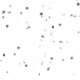
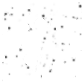
Progress on Faces. Obscurement.

diff --git a/js/orb/client/view/GameMap.js b/js/orb/client/view/GameMap.js
@@ -58,7 +58,7 @@
             initNode: function(parent, attrs) {
                 attrs.pointerEvents = 'none';
                 
-                attrs.zIndex = 2;
+                attrs.zIndex = 4;
                 attrs.boxShadow ??= [0,0,8,'#000'];
                 attrs.roundedCorners ??= 6;
                 attrs.padding ??= 6;
@@ -118,7 +118,7 @@
             initNode: function(parent, attrs) {
                 this.mouseOver = this.mouseDown = false;
                 
-                attrs.zIndex = 1;
+                attrs.zIndex = 3;
                 attrs.bgColor ??= '#000';
                 attrs.outline ??= [1, 'solid', '#000'];
                 attrs.border ??= [1, 'solid', '#fff'];
@@ -246,9 +246,11 @@
             include:[ImageSupport],
             
             initNode: function(parent, attrs) {
-                attrs.width = attrs.height = cellSize;
+                attrs.x = attrs.y = -1;
+                attrs.width = attrs.height = cellSize + 2;
                 attrs.pointerEvents = 'none';
                 attrs.imageSize = 'contain';
+                attrs.zIndex ??= 2;
                 
                 const rotation = attrs.rotation;
                 delete attrs.rotation;
@@ -273,7 +275,7 @@
                 
                 this.callSuper(parent, attrs);
                 
-                this._bFace = new FaceView(this, {});
+                this._bFace = new FaceView(this, {zIndex:1});
                 this._nFace = new FaceView(this, {});
                 this._sFace = new FaceView(this, {rotation:180});
                 this._eFace = new FaceView(this, {rotation:90});
@@ -568,6 +570,7 @@
             // Make a lookup table of observed cell IDs. These are Cells that are within your
             // sight distance. This produces a "set" of Cells in a circular shape.
             const originArr = character[FIELD_LOC],
+                originCell = model.getCellByLocArr(originArr),
                 baseX = originArr[1],
                 baseY = originArr[2],
                 offsets = cellOffsetsByDistance[character.getSightDistance()];
@@ -610,35 +613,66 @@
                             xIdx = isNotFlipped ? 1 : 2,
                             yIdx = isNotFlipped ? 2 : 1,
                             xAdj = isNotFlipped ? (isPosX ? 1 : -1) : (isPosY ? 1 : -1),
-                            yAdj = isNotFlipped ? (isPosY ? 1 : -1) : (isPosX ? 1 : -1);
+                            yAdj = isNotFlipped ? (isPosY ? 1 : -1) : (isPosX ? 1 : -1),
+                            
+                            /*DIR_UP = isNotFlipped ? 
+                                (isPosX ? (isPosY ? SOUTH : NORTH) : (isPosY ? SOUTH : NORTH)) : 
+                                (isPosX ? (isPosY ? EAST : EAST) : (isPosY ? WEST : WEST)),
+                            
+                            DIR_OVER = isNotFlipped ?
+                                (isPosX ? (isPosY ? EAST : EAST) : (isPosY ? WEST : WEST)) : 
+                                (isPosX ? (isPosY ? SOUTH : NORTH) : (isPosY ? SOUTH : NORTH));
+                            */
+                            
+                            DIR_UP = isNotFlipped ? (isPosY ? SOUTH : NORTH) : (isPosX ? EAST : WEST),
+                            DIR_OVER = isNotFlipped ? (isPosX ? EAST : WEST) : (isPosY ? SOUTH : NORTH);
                         
                         let opacityTotal = 0,
-                            endedOnObserved = false;
-                        const isCellObscured = locArrToCheck => {
+                            endedOnObserved = false,
+                            prevCell = originCell;
+                        const isCellObscured = (locArrToCheck, isUp) => {
                             const cellToCheck = model.getCellByLocArr(locArrToCheck);
                             if (cellToCheck) {
+                                // Check face in the cell we just left
+                                if (prevCell) {
+                                    face = prevCell.getFaceForDirection(isUp ? DIR_UP : DIR_OVER);
+                                    if (face) {
+                                        opacityTotal += face.getCompositionObject().getOpacity();
+                                        if (opacityTotal >= 1) return true;
+                                    }
+                                }
+                                prevCell = cellToCheck;
                                 
-                                // FIXME check cell walls once we have walls implemented.
+                                // Check face within the current cell we are checking
+                                face = cellToCheck.getFaceForOppositeDirection(isUp ? DIR_UP : DIR_OVER);
+                                if (face) {
+                                    opacityTotal += face.getCompositionObject().getOpacity();
+                                    if (opacityTotal >= 1) return true;
+                                }
+                                
+                                // Check cell itself
                                 opacityTotal += cellToCheck.getCompositionObject().getOpacity();
-                                if (opacityTotal < 1) return false;
+                                return opacityTotal >= 1;
                             }
                             return true;
                         };
+                        
                         const isObscured = (depth, firstZZ, zzOptA) => {
                             let retval = false;
                             switch (path[depth]) {
                                 case 'up':
                                     // Up only
                                     locArrToCheck[yIdx] += yAdj;
-                                    retval = isCellObscured(locArrToCheck);
+                                    retval = isCellObscured(locArrToCheck, true);
                                     break;
                                 case 'uo':
-                                    // Up and Over
+                                    // Up...
                                     locArrToCheck[yIdx] += yAdj;
-                                    retval = isCellObscured(locArrToCheck);
+                                    retval = isCellObscured(locArrToCheck, true);
                                     if (!retval) {
+                                        // ...and Over
                                         locArrToCheck[xIdx] += xAdj;
-                                        retval = isCellObscured(locArrToCheck);
+                                        retval = isCellObscured(locArrToCheck, false);
                                     }
                                     break;
                                 case 'zz':
@@ -647,31 +681,38 @@
                                     if (firstZZ) {
                                         const optBX = locArrToCheck[1],
                                             optBY = locArrToCheck[2],
-                                            optBOpacityTotal = opacityTotal;
+                                            optBOpacityTotal = opacityTotal,
+                                            optBPrevCell = prevCell;
                                         retval = isObscured(depth, false, true);
                                         const optAEndedOnObserved = endedOnObserved;
+                                        // If option A was obscured try option B.
                                         if (retval) {
                                             locArrToCheck[1] = optBX;
                                             locArrToCheck[2] = optBY;
                                             opacityTotal = optBOpacityTotal;
+                                            prevCell = optBPrevCell;
                                             retval = isObscured(depth, false, false);
                                             if (retval && optAEndedOnObserved) endedOnObserved = true;
                                         }
                                         return retval;
                                     } else {
                                         if (zzOptA) {
+                                            // Up...
                                             locArrToCheck[yIdx] += yAdj;
-                                            retval = isCellObscured(locArrToCheck);
+                                            retval = isCellObscured(locArrToCheck, true);
                                             if (!retval) {
+                                                // ...and Over
                                                 locArrToCheck[xIdx] += xAdj;
-                                                retval = isCellObscured(locArrToCheck);
+                                                retval = isCellObscured(locArrToCheck, false);
                                             }
                                         } else {
+                                            // Over...
                                             locArrToCheck[xIdx] += xAdj;
-                                            retval = isCellObscured(locArrToCheck);
+                                            retval = isCellObscured(locArrToCheck, false);
                                             if (!retval) {
+                                                // ... and Up
                                                 locArrToCheck[yIdx] += yAdj;
-                                                retval = isCellObscured(locArrToCheck);
+                                                retval = isCellObscured(locArrToCheck, true);
                                             }
                                         }
                                     }
@@ -691,7 +732,7 @@
                         };
                         
                         if (isObscured(0, true, true)) {
-                            if (!endedOnObserved) obscuredLocIds.add(locId);
+                            /*if (!endedOnObserved)*/ obscuredLocIds.add(locId);
                         }
                     }
                 } else {

diff --git a/js/orb/server/WorldEventHandler.js b/js/orb/server/WorldEventHandler.js
@@ -213,12 +213,12 @@ const orb = require('./orb.js'),
                             {prop, value, direction} = event.msg;
                         
                         const cell = worldMap.getCell(locArrToId(locArr), true),
-                            updateFaceFunc = (face, field, prop) => {
+                            updateFaceFunc = (face, field) => {
                                 if (value === 'unk') {
                                     cell.set(field, null);
                                 } else {
                                     if (face) {
-                                        face.set(prop, value);
+                                        face.set(FIELD_COMPOSITION, value);
                                     } else {
                                         cell.set(field, {[FIELD_COMPOSITION]:value});
                                     }
@@ -241,10 +241,10 @@ const orb = require('./orb.js'),
                             case WEST + '.' + FIELD_COMPOSITION:
                                 updateFaceFunc(cell.getWestFace(), FIELD_WEST);
                                 break;
-                            case TOP + '.' + FIELD_COMPOSITION:
+                            case UP + '.' + FIELD_COMPOSITION:
                                 updateFaceFunc(cell.getTopFace(), FIELD_TOP);
                                 break;
-                            case BOTTOM + '.' + FIELD_COMPOSITION:
+                            case DOWN + '.' + FIELD_COMPOSITION:
                                 updateFaceFunc(cell.getBottomFace(), FIELD_BOTTOM);
                                 break;
                         }

diff --git a/js/orb/client/view/GamePanel.js b/js/orb/client/view/GamePanel.js
@@ -42,7 +42,7 @@
                 TYPE_EXIT_WORLD, TYPE_ALTER_CELL, TYPE_CHANGE_FACING, TYPE_VOCALIZE
             },
             cell:{FIELD_COMPOSITION},
-            FACINGS:{NORTH, SOUTH, EAST, WEST, TOP, BOTTOM},
+            FACINGS:{NORTH, SOUTH, EAST, WEST, UP, DOWN},
             composition:{compositions},
             util:{locIdToArr}
         } = common,
@@ -564,8 +564,8 @@
                     {label:'south', value:SOUTH + '.c'},
                     {label:'east', value:EAST + '.c'},
                     {label:'west', value:WEST + '.c'},
-                    {label:'top', value:TOP + '.c'},
-                    {label:'bottom', value:BOTTOM + '.c'}
+                    {label:'top', value:UP + '.c'},
+                    {label:'bottom', value:DOWN + '.c'}
                 ]
             });
             const options = [];
